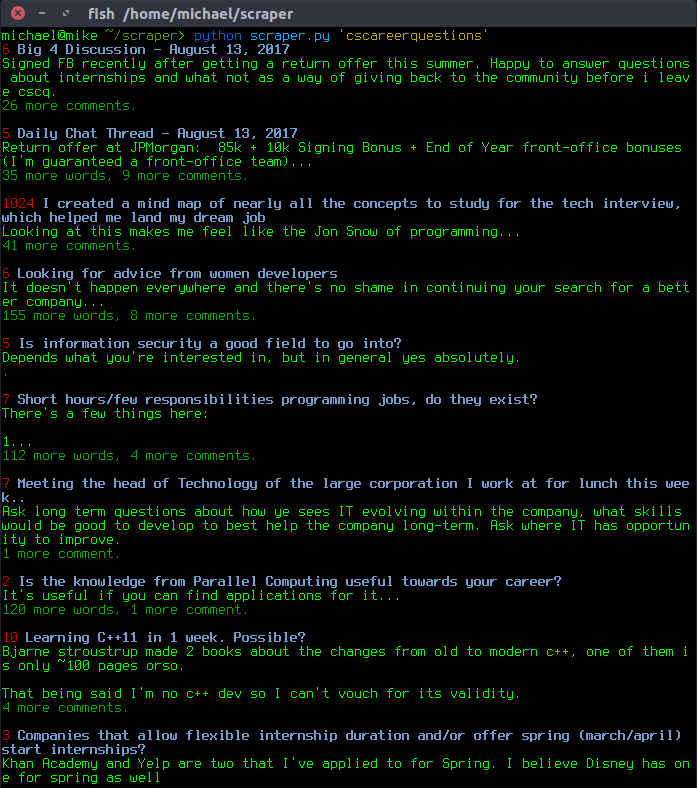
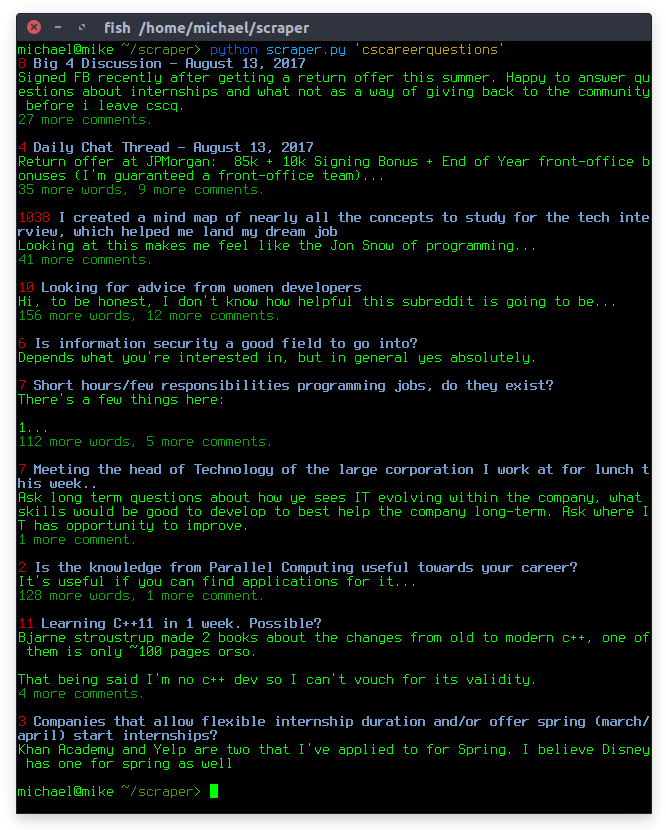
Update README.md and fix output bug

diff --git a/scraper.py b/scraper.py
@@ -20,8 +20,7 @@ reddit = praw.Reddit(client_id=config.CLIENT_ID,
 
 subreddit = reddit.subreddit(subreddit_name)
 for submission in subreddit.hot(limit=10):
-    print colored(str(submission.score), 'red'), 
-          colored(submission.title,'blue', attrs=['bold'])
+    print colored(str(submission.score), 'red'), colored(submission.title,'blue', attrs=['bold'])
 
     comments = list(submission.comments)
     
@@ -39,11 +38,10 @@ for submission in subreddit.hot(limit=10):
             if len(comments) > 2:
                 details[-1] += 's'
     
-        details = colored(', '.join(details) + '.', attrs=['dark'])
-
         print top_comment 
         if details:
-            print details
+            print colored(', '.join(details) + '.', attrs=['dark'])
+
     else:
         print '<No comments>'
     print ''
